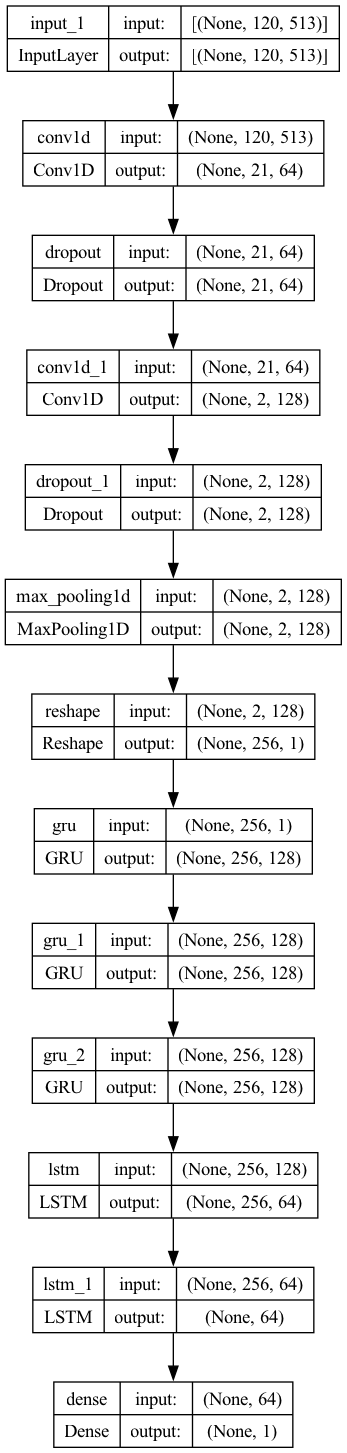
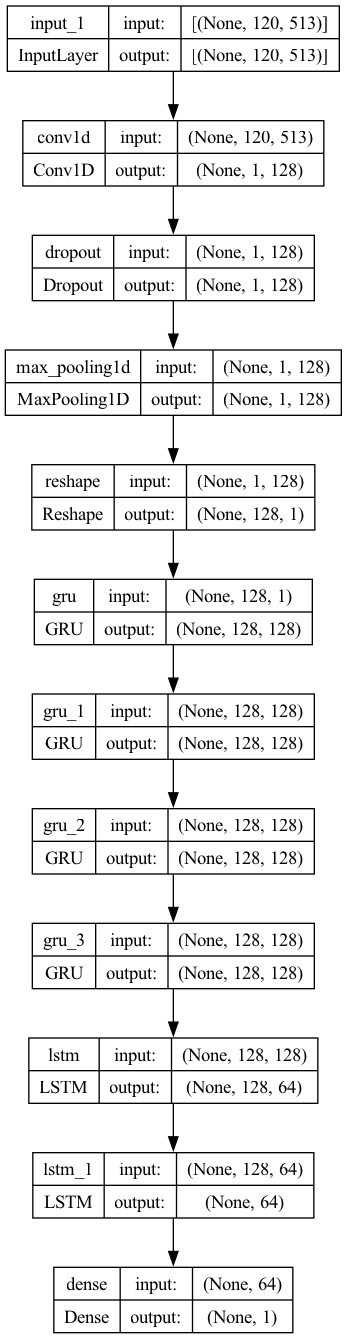
add chroma features

Changed region(s): [[0.0, 0.0, 0.9798, 1.0], [0.9798, 0.3981, 1.0, 0.4593], [0.9798, 0.245, 1.0, 0.3062]]

diff --git a/utils/utils.py b/utils/utils.py
@@ -5,8 +5,8 @@ import os
 import librosa
 
 from my_config import *
-from data_generator import DataGenerator
-from features_extractors import extract_raw_audio, extract_mfcc, extract_logmel
+# from data_generator import DataGenerator
+# from features_extractors import extract_raw_audio, extract_mfcc, extract_logmel
 
 
 def lr_scheduler(epoch, lr):
@@ -15,24 +15,24 @@ def lr_scheduler(epoch, lr):
     return lr
 
 
-def create_datagenerator(extraction_function, train_filepath, dev_filepath, test_filepath, batch_size):
-    # Create the appropriate DataGenerator based on extraction_function
-    if extraction_function == extract_raw_audio:
-        train_generator = DataGenerator(train_filepath, batch_size, audio_shape=RAW_SHAPE)
-        dev_generator = DataGenerator(dev_filepath, batch_size, audio_shape=RAW_SHAPE)
-        test_generator = DataGenerator(test_filepath, batch_size, audio_shape=RAW_SHAPE)
-    elif extraction_function == extract_mfcc:
-        train_generator = DataGenerator(train_filepath, batch_size, audio_shape=MFCC_SHAPE)
-        dev_generator = DataGenerator(dev_filepath, batch_size, audio_shape=MFCC_SHAPE)
-        test_generator = DataGenerator(test_filepath, batch_size, audio_shape=MFCC_SHAPE)
-    elif extraction_function == extract_logmel:
-        train_generator = DataGenerator(train_filepath, batch_size, audio_shape=LOGMEL_SHAPE)
-        dev_generator = DataGenerator(dev_filepath, batch_size, audio_shape=LOGMEL_SHAPE)
-        test_generator = DataGenerator(test_filepath, batch_size, audio_shape=LOGMEL_SHAPE)
-    else:
-        raise ValueError("Invalid extraction_function. Must be one of [extract_raw_audio, extract_mfcc, extract_logmel]")
-
-    return train_generator, dev_generator, test_generator
+# def create_datagenerator(extraction_function, train_filepath, dev_filepath, test_filepath, batch_size):
+#     # Create the appropriate DataGenerator based on extraction_function
+#     if extraction_function == extract_raw_audio:
+#         train_generator = DataGenerator(train_filepath, batch_size, audio_shape=RAW_SHAPE)
+#         dev_generator = DataGenerator(dev_filepath, batch_size, audio_shape=RAW_SHAPE)
+#         test_generator = DataGenerator(test_filepath, batch_size, audio_shape=RAW_SHAPE)
+#     elif extraction_function == extract_mfcc:
+#         train_generator = DataGenerator(train_filepath, batch_size, audio_shape=MFCC_SHAPE)
+#         dev_generator = DataGenerator(dev_filepath, batch_size, audio_shape=MFCC_SHAPE)
+#         test_generator = DataGenerator(test_filepath, batch_size, audio_shape=MFCC_SHAPE)
+#     elif extraction_function == extract_logmel:
+#         train_generator = DataGenerator(train_filepath, batch_size, audio_shape=LOGMEL_SHAPE)
+#         dev_generator = DataGenerator(dev_filepath, batch_size, audio_shape=LOGMEL_SHAPE)
+#         test_generator = DataGenerator(test_filepath, batch_size, audio_shape=LOGMEL_SHAPE)
+#     else:
+#         raise ValueError("Invalid extraction_function. Must be one of [extract_raw_audio, extract_mfcc, extract_logmel]")
+#
+#     return train_generator, dev_generator, test_generator
 
 
 # def load_files_labels(directories, labels):

diff --git a/features_extractors.py b/features_extractors.py
@@ -289,7 +289,54 @@ def extract_spectrogram_segments(audio, sr, n_fft=1024, hop_length=512):
 
     # Optionally, you could print the shape of one segment to verify the dimensions
     if spectrogram_segments:
-        print(
-            f"One spectrogram segment shape: {spectrogram_segments[0].shape} (Expected: (120, {n_fft // 2 + 1}))")  # n_fft//2 + 1 is the number of unique STFT bins
+        # n_fft//2 + 1 is the number of unique STFT bins
+        print(f"One spectrogram segment shape: {spectrogram_segments[0].shape} (Expected: (120, {n_fft // 2 + 1}))")
 
     return spectrogram_segments
+
+
+def extract_chroma_segments(audio, sr, n_fft=1024, hop_length=512):
+    # The length of each segment in samples to fit exactly 120 frames
+    segment_length_samples = 61440  # 61,440 samples to fit the requirement
+
+    # Calculate the total number of segments that can be extracted from the audio
+    num_segments = len(audio) // segment_length_samples
+
+    chroma_segments = []
+
+    for i in range(num_segments):
+        # Calculate the start and end sample indices for the current segment
+        start_sample = i * segment_length_samples
+        end_sample = start_sample + segment_length_samples
+
+        # Extract the segment from the audio
+        segment = audio[start_sample:end_sample]
+
+        # Compute the chroma feature for the current segment
+        chroma = librosa.feature.chroma_stft(segment, sr=sr, n_fft=n_fft, hop_length=hop_length)
+
+        # Transpose the chroma matrix
+        chroma_transposed = chroma.T
+
+        # Calculate mean and std for each segment for normalization
+        mean = np.mean(chroma_transposed)
+        std = np.std(chroma_transposed)
+
+        # Normalize the chroma features for the segment
+        chroma_normalized = (chroma_transposed - mean) / (std + 1e-8)
+
+        # Optional: Subtract the mean of each coefficient from all frames (mean normalization per bin)
+        chroma_normalized -= np.mean(chroma_normalized, axis=0, keepdims=True)
+
+        # Trim the last time frame if chroma shape exceeds the expected frame count
+        if chroma_normalized.shape[0] > 120:
+            chroma_normalized = chroma_normalized[:120, :]
+
+        # Append the processed, normalized chroma segment to the list
+        chroma_segments.append(chroma_normalized)
+
+    # Optionally, you can check the shape of one segment to verify the dimensions
+    if chroma_segments:
+        print(f"One chroma segment shape: {chroma_segments[0].shape} (Expected: (120, 12))")  # 12 chroma features
+
+    return chroma_segments

diff --git a/1d_model.py b/1d_model.py
@@ -45,26 +45,27 @@ data_loader = DataLoader(my_config.TRAIN_H5, my_config.DEV_H5, my_config.TEST_H5
 audio_input = Input(shape=LOGMEL_SHAPE_WINDOW)
 
 # Conv2D Layer
-conv1 = Conv1D(filters=64, kernel_size=100, strides=1, padding='valid')(audio_input)
+conv1 = Conv1D(filters=128, kernel_size=120, strides=1, padding='valid')(audio_input)
 # conv1 = squeeze_excite_block(conv1)
 # conv1 = Activation('relu')(conv1)
 
 conv1 = Dropout(0.5)(conv1)
 
-conv2 = Conv1D(filters=128, kernel_size=20, strides=1, padding='valid')(conv1)
+# conv2 = Conv1D(filters=128, kernel_size=20, strides=1, padding='valid')(conv1)
 # conv2 = squeeze_excite_block(conv2)
 # # conv2 = Activation('relu')(conv2)
 
-conv2 = Dropout(0.5)(conv2)
+# conv2 = Dropout(0.5)(conv2)
 
 # MaxPooling2D Layer
-max_pool1 = MaxPooling1D(pool_size=1, strides=1, padding='valid')(conv2)
+max_pool1 = MaxPooling1D(pool_size=1, strides=1, padding='valid')(conv1)
 
 reshape = layers.Reshape((-1, 1))(max_pool1)
 
 # Add the GRU layer
 gru = layers.GRU(128, return_sequences=True, dropout=0.5)(reshape)
-gru2 = layers.GRU(128, return_sequences=True, dropout=0.5)(gru)
+gru1 = layers.GRU(128, return_sequences=True, dropout=0.5)(gru)
+gru2 = layers.GRU(128, return_sequences=True, dropout=0.5)(gru1)
 gru3 = layers.GRU(128, return_sequences=True, dropout=0.5)(gru2)
 gru4 = layers.LSTM(64, return_sequences=True, dropout=0.5)(gru3)
 gru5 = layers.LSTM(64, return_sequences=False, dropout=0.5)(gru4)

diff --git a/preprocess.py b/preprocess.py
@@ -70,8 +70,7 @@ def balance_and_select_speakers(file_paths, labels, speaker_ids, num_speakers_pe
 ######################################################################################################################
 
 
-def preprocess_and_save_features(file_paths, labels, output_file_path, extraction_func, mean=None, std=None,
-                                 optimum_segments=5999, speakers_per_class=None):
+def preprocess_and_save_features(file_paths, labels, output_file_path, extraction_func, speakers_per_class=None):
 
     # Initialize counters for depressed/non-depressed segments
     label_counters = defaultdict(int)
@@ -121,7 +120,6 @@ def preprocess_and_save_features(file_paths, labels, output_file_path, extractio
                     audio, sr = librosa.load(file_path, sr=None)
 
                     print(f"Extracting segments from {file_path}...")
-                    # segments = extraction_func(audio, sr, mean=mean, std=std)  #[:optimum_segments]
                     segments = extraction_func(audio, sr)
                     for i, segment in enumerate(segments):
                         grp_name = f"{speaker_id}_{class_label}_{i}"
@@ -170,6 +168,6 @@ preprocess_and_save_features(
     './processed_audio_features/test_features.h5',
     # augment=False,
     extraction_func=EXTRACTION_FUNCTION,
-    mean=global_mel_mean,
-    std=global_mel_std
+    # mean=global_mel_mean,
+    # std=global_mel_std
 )
